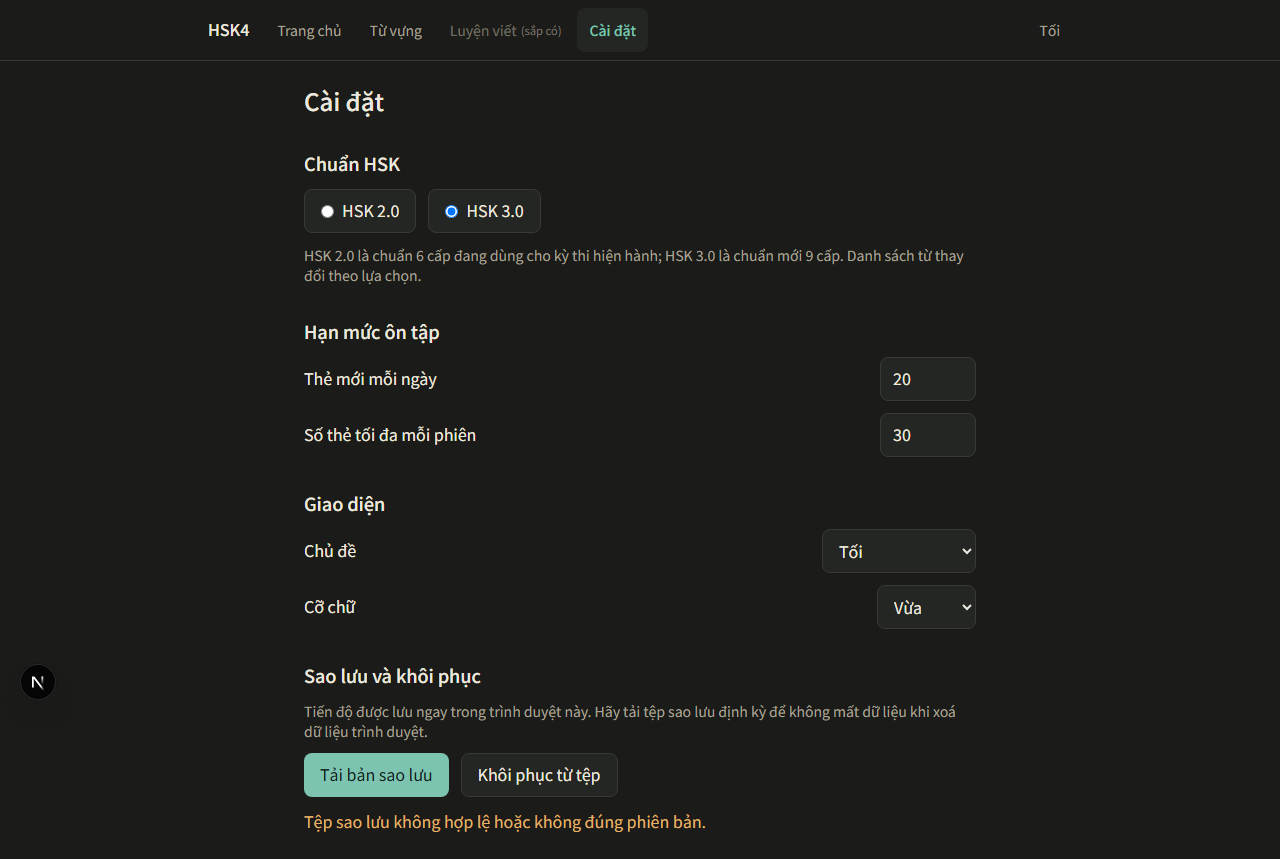
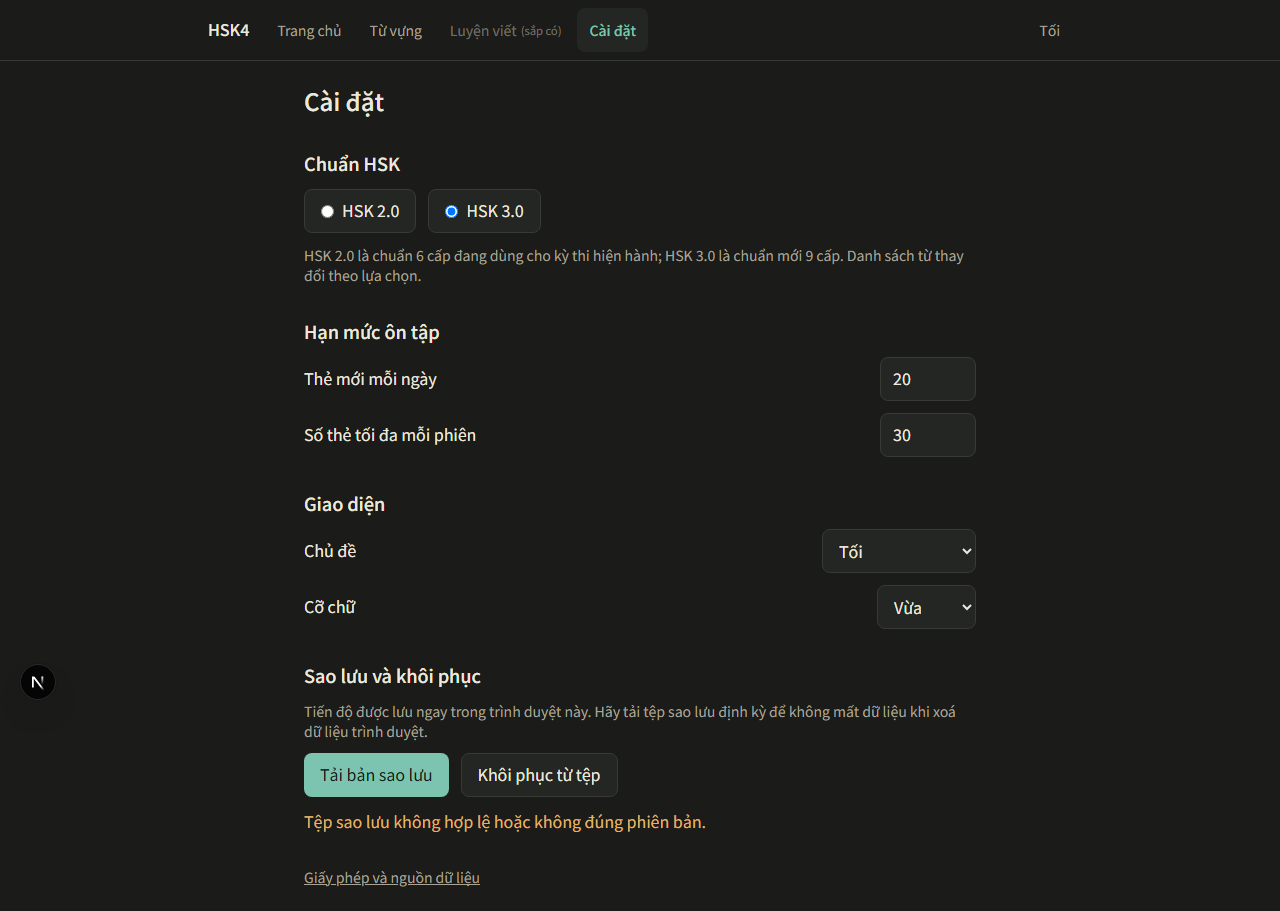
feat: add about page, pwa and e2e coverage

diff --git a/src/app/(main)/about/page.tsx b/src/app/(main)/about/page.tsx
@@ -1,0 +1,60 @@
+const SOURCES = [
+  {
+    name: "complete-hsk-vocabulary",
+    url: "https://github.com/drkameleon/complete-hsk-vocabulary",
+    license: "MIT",
+    use: "Danh sách từ HSK 2.0 và 3.0 theo cấp, từ loại.",
+  },
+  {
+    name: "CVDICT",
+    url: "https://github.com/ph0ngp/CVDICT",
+    license: "CC BY-SA 4.0",
+    use: "Nghĩa tiếng Việt.",
+  },
+  {
+    name: "OpenCidian",
+    url: "https://github.com/OpenCidian/opencidian-data",
+    license: "CC BY-SA 4.0",
+    use: "Âm Hán Việt (và tổng hợp dữ liệu CVDICT).",
+  },
+  {
+    name: "CC-CEDICT",
+    url: "https://www.mdbg.net/chinese/dictionary?page=cc-cedict",
+    license: "CC BY-SA 4.0",
+    use: "Nghĩa tiếng Anh.",
+  },
+  {
+    name: "Hanzi Writer",
+    url: "https://hanziwriter.org",
+    license: "MIT; dữ liệu nét chữ từ Make Me a Hanzi (Arphic Public License)",
+    use: "Thứ tự nét chữ Hán — dự kiến dùng ở giai đoạn sau.",
+  },
+  {
+    name: "Arphic Public License",
+    url: "https://github.com/skishore/makemeahanzi",
+    license: "Arphic Public License",
+    use: "Phông/dữ liệu nét của Arphic trong Make Me a Hanzi — giai đoạn sau.",
+  },
+];
+
+export default function AboutPage() {
+  return (
+    <div className="mx-auto max-w-2xl space-y-6">
+      <h1 className="text-2xl font-medium">Giấy phép và nguồn</h1>
+      <p className="text-muted">
+        Dữ liệu từ vựng được gộp từ các nguồn mở dưới đây. Dữ liệu phái sinh từ các nguồn CC BY-SA được chia sẻ theo cùng giấy phép (CC BY-SA 4.0).
+      </p>
+      <ul className="space-y-4">
+        {SOURCES.map((s) => (
+          <li key={s.name} className="rounded-xl border border-line bg-surface p-4">
+            <a href={s.url} className="font-medium underline" target="_blank" rel="noreferrer">
+              {s.name}
+            </a>
+            <p className="text-sm text-muted">Giấy phép: {s.license}</p>
+            <p className="text-sm">{s.use}</p>
+          </li>
+        ))}
+      </ul>
+    </div>
+  );
+}

diff --git a/e2e/backup.spec.ts b/e2e/backup.spec.ts
@@ -1,0 +1,41 @@
+import { readFileSync } from "node:fs";
+import { expect, test } from "@playwright/test";
+
+async function reviewOneCard(page: import("@playwright/test").Page) {
+  await page.goto("/review");
+  await page.getByRole("button", { name: /Lật thẻ/ }).click();
+  await page.getByRole("button", { name: /Được/ }).click();
+  await expect(page.getByRole("progressbar")).not.toHaveAttribute("aria-valuenow", "0");
+}
+
+async function readyCount(page: import("@playwright/test").Page) {
+  await page.goto("/");
+  const text = await page.getByText(/\d+ thẻ/).first().innerText();
+  return Number(/(\d+) thẻ/.exec(text)![1]);
+}
+
+test("TC-06: sao lưu rồi khôi phục đưa tiến độ về đúng trạng thái đã lưu", async ({ page }) => {
+  await reviewOneCard(page);
+  const atBackup = await readyCount(page);
+
+  await page.goto("/settings");
+  const [download] = await Promise.all([
+    page.waitForEvent("download"),
+    page.getByRole("button", { name: "Tải bản sao lưu" }).click(),
+  ]);
+  expect(download.suggestedFilename()).toMatch(/^hsk4-backup-\d{4}-\d{2}-\d{2}\.json$/);
+  const file = await download.path();
+
+  await reviewOneCard(page);
+  expect(await readyCount(page)).toBe(atBackup - 1);
+
+  await page.goto("/settings");
+  page.once("dialog", (d) => d.accept());
+  await page.locator("input[type=file]").setInputFiles({
+    name: "backup.json",
+    mimeType: "application/json",
+    buffer: readFileSync(file),
+  });
+  await page.waitForLoadState("load");
+  expect(await readyCount(page)).toBe(atBackup);
+});

diff --git a/src/app/layout.tsx b/src/app/layout.tsx
@@ -1,6 +1,7 @@
 import type { Metadata } from "next";
 import { Noto_Sans_SC, Noto_Serif_SC } from "next/font/google";
 import { AppProvider } from "@/lib/app-context";
+import { RegisterSW } from "@/components/RegisterSW";
 import "./globals.css";
 
 const notoSans = Noto_Sans_SC({
@@ -20,12 +21,14 @@ const notoSerif = Noto_Serif_SC({
 export const metadata: Metadata = {
   title: "HSK4 · Ôn tập tiếng Trung",
   description: "Ôn từ vựng, luyện viết và thi thử HSK4 một cách tập trung.",
+  manifest: "/manifest.webmanifest",
 };
 
 export default function RootLayout({ children }: LayoutProps<"/">) {
   return (
     <html lang="vi" className={`${notoSans.variable} ${notoSerif.variable} h-full antialiased`}>
-      <body className="min-h-full flex flex-col"><AppProvider>{children}</AppProvider></body>
+      <body className="min-h-full flex flex-col"><RegisterSW />
+        <AppProvider>{children}</AppProvider></body>
     </html>
   );
 }

diff --git a/public/sw.js b/public/sw.js
@@ -1,0 +1,28 @@
+// Minimal offline support: network first, falling back to whatever was cached on earlier visits.
+const CACHE = "hsk4-v1";
+
+self.addEventListener("install", () => self.skipWaiting());
+self.addEventListener("activate", (e) => {
+  e.waitUntil(
+    caches
+      .keys()
+      .then((keys) => Promise.all(keys.filter((k) => k !== CACHE).map((k) => caches.delete(k))))
+      .then(() => self.clients.claim()),
+  );
+});
+
+self.addEventListener("fetch", (e) => {
+  const req = e.request;
+  if (req.method !== "GET" || new URL(req.url).origin !== self.location.origin) return;
+  e.respondWith(
+    fetch(req)
+      .then((res) => {
+        if (res.ok) {
+          const copy = res.clone();
+          caches.open(CACHE).then((c) => c.put(req, copy));
+        }
+        return res;
+      })
+      .catch(() => caches.match(req).then((hit) => hit ?? caches.match("/"))),
+  );
+});

diff --git a/e2e/about.spec.ts b/e2e/about.spec.ts
@@ -1,0 +1,15 @@
+import { expect, test } from "@playwright/test";
+
+test("trang Giấy phép và nguồn ghi đủ các nguồn dữ liệu", async ({ page }) => {
+  await page.goto("/about");
+  for (const name of ["complete-hsk-vocabulary", "CVDICT", "OpenCidian", "CC-CEDICT", "Hanzi Writer", "Arphic"]) {
+    await expect(page.getByText(name).first()).toBeVisible();
+  }
+  await expect(page.getByText("CC BY-SA 4.0").first()).toBeVisible();
+});
+
+test("manifest PWA có sẵn", async ({ request }) => {
+  const res = await request.get("/manifest.webmanifest");
+  expect(res.ok()).toBe(true);
+  expect((await res.json()).name).toContain("HSK4");
+});

diff --git a/e2e/screens.spec.ts b/e2e/screens.spec.ts
@@ -1,0 +1,19 @@
+import { test } from "@playwright/test";
+
+const SHOTS = "docs/features/study/phase1-foundation-vocab/screenshots";
+const PAGES = [
+  ["home", "/"],
+  ["vocab", "/vocab"],
+  ["about", "/about"],
+] as const;
+
+for (const theme of ["light", "dark"] as const) {
+  test(`ảnh các màn hình chính (${theme})`, async ({ page }, info) => {
+    await page.emulateMedia({ colorScheme: theme });
+    for (const [name, url] of PAGES) {
+      await page.goto(url);
+      await page.waitForLoadState("networkidle");
+      await page.screenshot({ path: `${SHOTS}/T-001.12-${name}-${theme}-${info.project.name}.png` });
+    }
+  });
+}

diff --git a/src/components/SettingsForm.tsx b/src/components/SettingsForm.tsx
@@ -1,5 +1,6 @@
 "use client";
 
+import Link from "next/link";
 import { useState } from "react";
 import { useApp } from "@/lib/app-context";
 import { downloadBackup, importBackupText } from "@/lib/backup";
@@ -136,6 +137,12 @@ export function SettingsForm() {
           </p>
         )}
       </section>
+
+      <p className="text-sm text-muted">
+        <Link href="/about" className="underline">
+          Giấy phép và nguồn dữ liệu
+        </Link>
+      </p>
     </div>
   );
 }

diff --git a/src/components/RegisterSW.tsx b/src/components/RegisterSW.tsx
@@ -1,0 +1,12 @@
+"use client";
+
+import { useEffect } from "react";
+
+export function RegisterSW() {
+  useEffect(() => {
+    if (process.env.NODE_ENV === "production" && "serviceWorker" in navigator) {
+      navigator.serviceWorker.register("/sw.js").catch(() => {});
+    }
+  }, []);
+  return null;
+}

diff --git a/docs/features/study/phase1-foundation-vocab/status.md b/docs/features/study/phase1-foundation-vocab/status.md
@@ -9,8 +9,8 @@
 | Trạng thái | 🟡 IN_PROGRESS |
 | Yêu cầu đang làm | CR-001 — Nền tảng, từ vựng, flashcard SRS |
 | Bước Superpowers | executing-plans (inline) |
-| Task đang làm | T-001.12 |
-| **Bước tiếp theo** | Task 12: giấy phép, PWA, e2e, kiểm tra cuối |
+| Task đang làm | T-001.13 |
+| **Bước tiếp theo** | Review toàn nhánh rồi hoàn tất |
 | Branch | feat/phase1-foundation |
 | Cập nhật lần cuối | 2026-11-18 |
 | Ghi chú dở dang | Không |
@@ -37,7 +37,7 @@
 | T-001.9 | Phiên flashcard | ✅ DONE | vitest 68/68 + Playwright TC-02/TC-05 4/4 | |
 | T-001.10 | Trang chủ | ✅ DONE | vitest 76/76; Playwright home 2/2 + shell 2/2, ảnh T-001.10 | |
 | T-001.11 | Cài đặt + sao lưu | ✅ DONE | vitest 82/82; Playwright settings 2/2, ảnh T-001.11 | |
-| T-001.12 | About, PWA, e2e | ⬜ TODO | | |
+| T-001.12 | About, PWA, e2e | ✅ DONE | validate OK; vitest 82/82; Playwright 19/20 (vocab flake khi chạy song song, đạt khi chạy lại 4/4); build OK; ảnh T-001.12 sáng/tối desktop/mobile | |
 
 ## Kết quả test gần nhất
 | Thời gian | Lệnh / kịch bản | Kết quả | Ghi chú |
